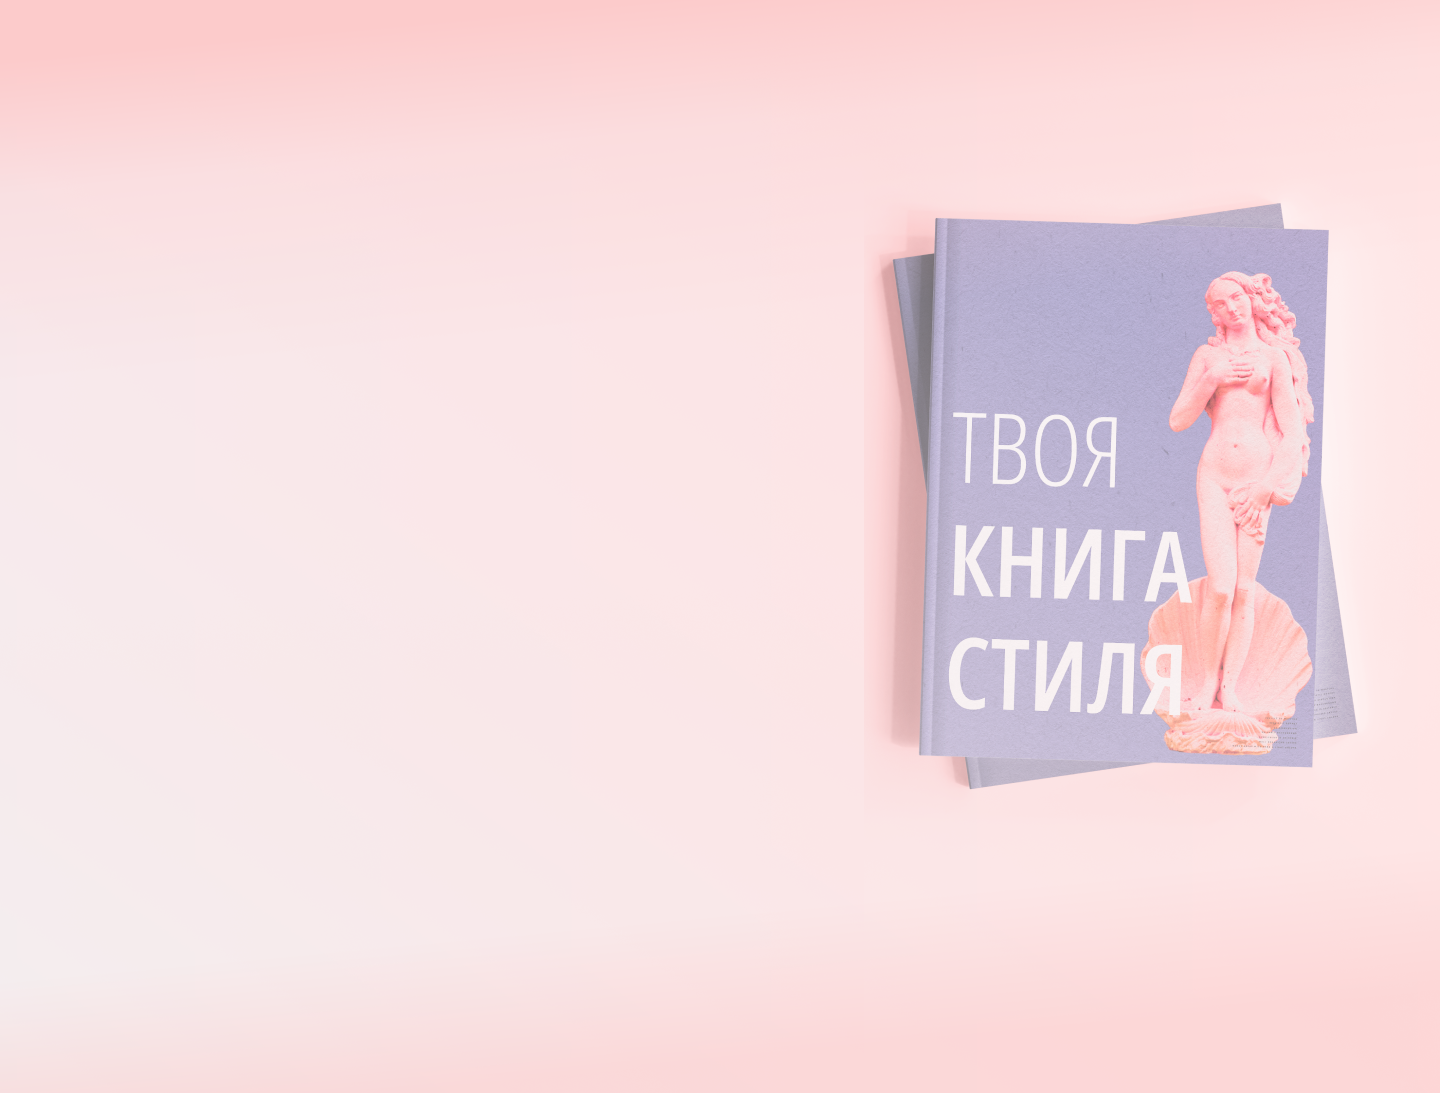
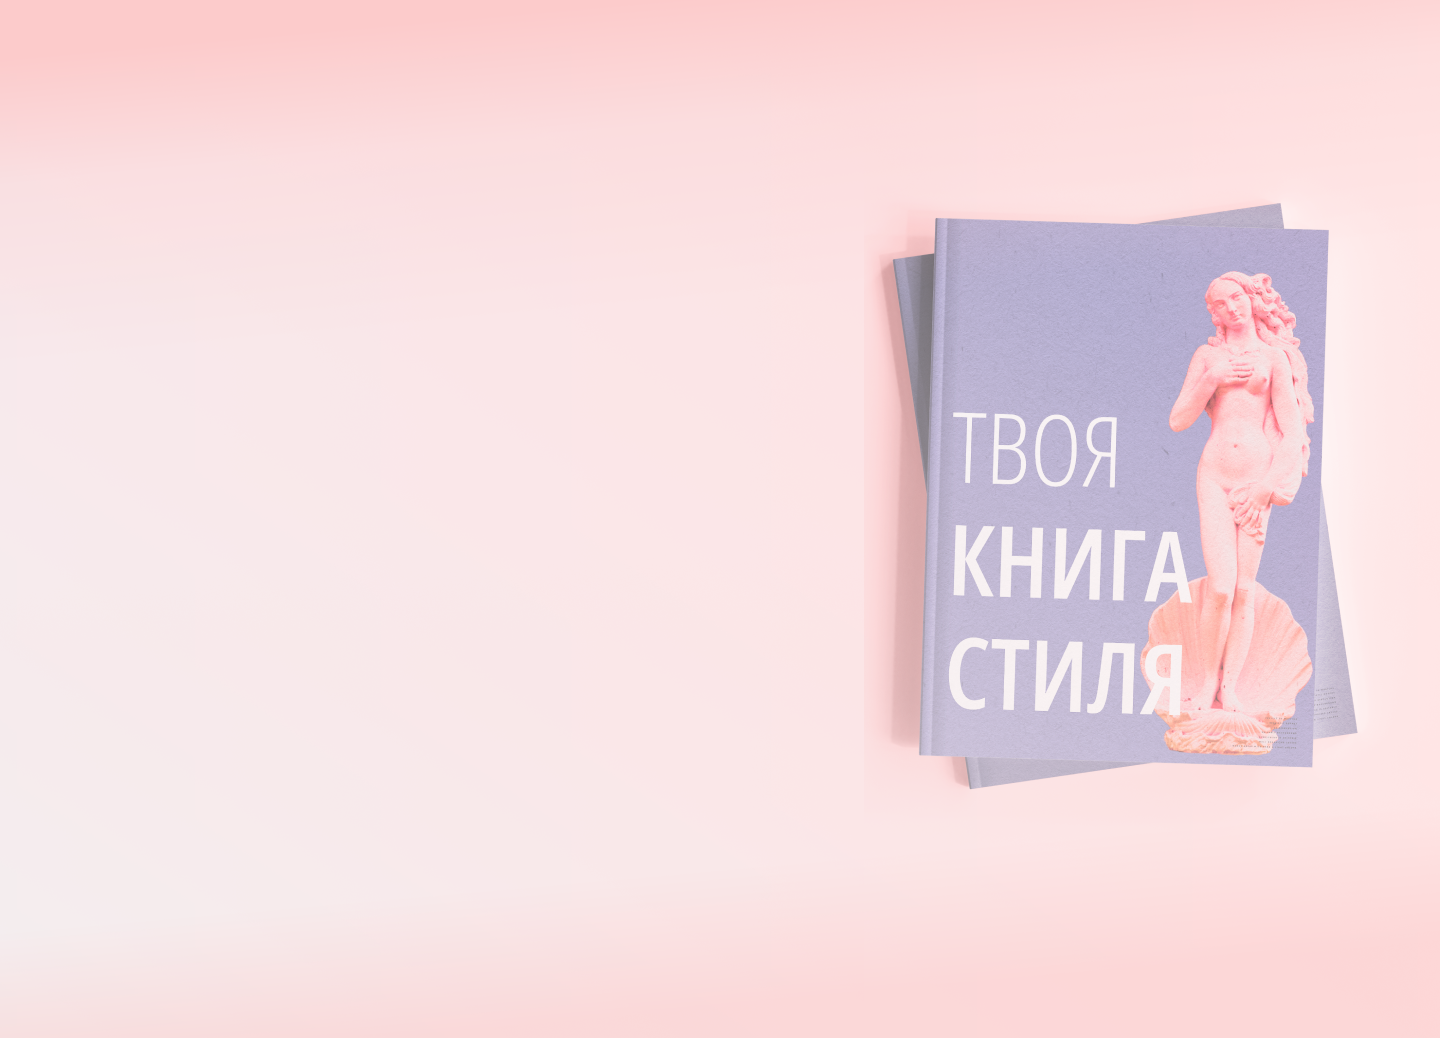
Добавила секцию Персональный лукбук

diff --git a/index.html b/index.html
@@ -224,9 +224,49 @@
     </section>
 
       <!-- ИНДИВИДУАЛЬНАЯ КНИГА СТИЛЯ -->
-      <h2 class="title">ИНДИВИДУАЛЬНАЯ КНИГА СТИЛЯ</h2>
-      <a href="#" class="button btn-main btn-want">ХОЧУ КНИГУ СТИЛЯ</a>
+      <section class="book-section">
+        <h2 class="book-section__title title">ИНДИВИДУАЛЬНАЯ КНИГА СТИЛЯ
+        </h2>
+        <div class="book-section__wrappers">
+          <div class="book-section__wrapper_left">
+            <article class="book-section__book-text">
+              <p class="book-section__paragraph">Это специально разработанная для тебя “Книга стиля”, которая включает  рекомендации по стилю, цвету, фасонам одежды и обуви. 
+              </p> 
+              <p class="book-section__paragraph">В книге около 60 страниц с наглядным описанием фасонов одежды, цветовой палитры, аксессуаров - с учетом твоей индивидуальности (типа фигуры и колорита).
+              </p> 
+              <p class="book-section__paragraph">А также личная онлайн-консультация по интерпретации твоих архетипов, учитывающая внешние данные и образ жизни. 
+              </p>
+            </article>
 
+            <div class="book-section__present-block present-block">
+    
+              <div class="book-section__row-1">
+                <h4 class="book-section__subtitle subtitle">ПОДАРОК
+              </h4>
+            </div>
+    
+            <div class="book-section__row-2">
+              <img class="book-section__point_violet" src="./assets/images/point_violet.png" alt="violet point">
+            <div class="book-section__box-text">тест на определение женского архетипа
+
+            </div>
+            </div>
+    
+            <div class="book-section__row-3">
+              <img class="book-section__point_violet" src="./assets/images/point_violet.png" alt="violet point">
+            <div class="book-section__box-text">тест на определение мужского архетипа 
+              (для мужчин)
+            </div>
+          </div>
+        </div>
+      </div>
+
+      <div class="book-section__wrapper_right">
+        <a href="#" class="book-section__button button btn-main btn-want">ХОЧУ КНИГУ СТИЛЯ</a>
+      </div>
+      
+    </div>
+    </section>
       <!-- КАК СДЕЛАТЬ ЗАКАЗ -->
       <h2 class="title">КАК СДЕЛАТЬ ЗАКАЗ</h2>
 

diff --git a/assets/styles/style.css b/assets/styles/style.css
@@ -825,6 +825,10 @@ textarea {
   padding: 2.5em 1em;
 }
 
+.btn-buy {
+  padding: 1.2em 2.6em;
+}
+
 .btn-purple {
   background: #9B89FF;
   color: #ffffff;
@@ -862,8 +866,8 @@ textarea {
   display: flex;
   flex-direction: column;
   width: 1440px;
-  height: 948px;
-  background-image: url("/assets/images/Background_1-block_.png");
+  height: 1080px;
+  background-image: url("/assets/images/Background_1-block.png");
   background-repeat: no-repeat;
   background-size: cover;
 }
@@ -880,7 +884,7 @@ textarea {
   width: 768px;
   height: 320px;
   margin-left: 90px;
-  margin-top: 116px;
+  margin-top: 250px;
 }
 
 .main-section__subtitle-main {
@@ -1092,6 +1096,107 @@ textarea {
 
 .lookbook-section__button {
   margin-top: 26px;
+}
+
+.present-block {
+  display: flex;
+  flex-direction: column;
+}
+
+.book-section {
+  background-image: url("/assets/images/Background_10-block.png");
+  background-repeat: no-repeat;
+  background-size: cover;
+  width: 1440px;
+  height: 1038px;
+}
+
+.book-section__wrappers {
+  display: flex;
+  flex-direction: row;
+  width: 1254px;
+  height: 708px;
+  margin: 0 auto;
+}
+
+.book-section__wrapper_left {
+  display: flex;
+  flex-direction: column;
+  width: 690px;
+  height: 800px;
+}
+
+.book-section__wrapper_right {
+  display: flex;
+  flex-direction: row-reverse;
+  justify-content: flex-start;
+  width: 585px;
+  height: 800px;
+}
+
+.book-section__title {
+  position: relative;
+  width: 900px;
+  height: 35px;
+  padding-top: 90px;
+  margin: 0 auto;
+}
+
+.book-section__book-text {
+  position: relative;
+  font-size: 24px;
+  line-height: 29px;
+  letter-spacing: 0.06em;
+  width: 689px;
+  height: 387px;
+  margin-top: 120px;
+}
+
+.book-section__paragraph {
+  text-indent: 1em;
+  margin-bottom: 1em;
+}
+
+.book-section__present-block {
+  position: relative;
+  border: 4px solid #FAACA8;
+  width: 675px;
+  height: 231px;
+  margin-top: 50px;
+}
+
+.book-section__row-1, .book-section__row-2, .book-section__row-3 {
+  display: flex;
+  flex-direction: row;
+}
+
+.book-section__row-2 {
+  margin-bottom: 26px;
+}
+
+.book-section__subtitle {
+  margin: 0 auto;
+  margin-top: 30px;
+  margin-bottom: 29px;
+}
+
+.book-section__point_violet {
+  width: 28px;
+  height: 28px;
+  margin-left: 22px;
+  margin-right: 15px;
+}
+
+.book-section__box-text {
+  position: relative;
+  font-size: 24px;
+  line-height: 29px;
+  letter-spacing: 0.06em;
+}
+
+.book-section__button {
+  position: relative;
+  align-self: end;
 }
 
 .present-block {

diff --git a/assets/sass/book-section/book-section.scss b/assets/sass/book-section/book-section.scss
@@ -1,0 +1,100 @@
+.book-section {
+    background-image:url("/assets/images/Background_10-block.png");
+    background-repeat:no-repeat;
+    background-size: cover;
+    width: 1440px;
+    height: 1038px;
+}
+
+.book-section__wrappers {
+    display: flex;
+    flex-direction: row;
+    width: 1254px;
+    height: 708px;
+    margin: 0 auto;
+}
+
+.book-section__wrapper_left {
+    display: flex;
+    flex-direction: column;
+    width: 690px;
+    height: 800px;
+}
+
+.book-section__wrapper_right {
+    display: flex; 
+    flex-direction: row-reverse;
+    justify-content: flex-start;
+    width: 585px;
+    height: 800px;
+}
+
+
+.book-section__title {
+    position: relative;
+    width: 900px;
+    height: 35px;
+    // align-self:center;
+    padding-top: 90px;
+    margin: 0 auto;
+}
+
+.book-section__book-text {
+    position: relative;
+    font-size: 24px;
+    line-height: 29px;
+    letter-spacing: 0.06em;
+    width: 689px;
+    height: 387px;
+    margin-top: 120px;
+    
+    
+}
+.book-section__paragraph {
+    text-indent: 1em;
+    margin-bottom: 1em;
+}
+.book-section__present-block {
+    position: relative;
+    border: 4px solid #FAACA8;
+    width: 675px;
+    height: 231px;
+    margin-top: 50px;
+    
+}
+.book-section__row-1, .book-section__row-2, .book-section__row-3 {
+    display: flex;
+    flex-direction: row;
+}
+.book-section__row-2 {
+    margin-bottom: 26px;
+}
+
+.book-section__subtitle {
+    margin: 0 auto;
+    margin-top: 30px;
+    margin-bottom: 29px;
+}
+
+.book-section__point_violet {
+    width: 28px;
+    height: 28px;
+    margin-left: 22px;
+    margin-right: 15px;
+}
+.book-section__box-text {
+    position: relative;
+    font-size: 24px;
+    line-height: 29px;
+    letter-spacing: 0.06em;
+}
+.book-section__button {
+    position: relative;
+    align-self: end;
+}
+
+
+.present-block {
+    display: flex;
+    flex-direction: column;
+}

diff --git a/assets/sass/style.sass b/assets/sass/style.sass
@@ -12,3 +12,4 @@
 @import "./main-section/main-section.scss"
 @import "./reviews-section/reviews-section.scss"
 @import "./lookbook-section/lookbook-section.scss"
+@import "./book-section/book-section.scss"
